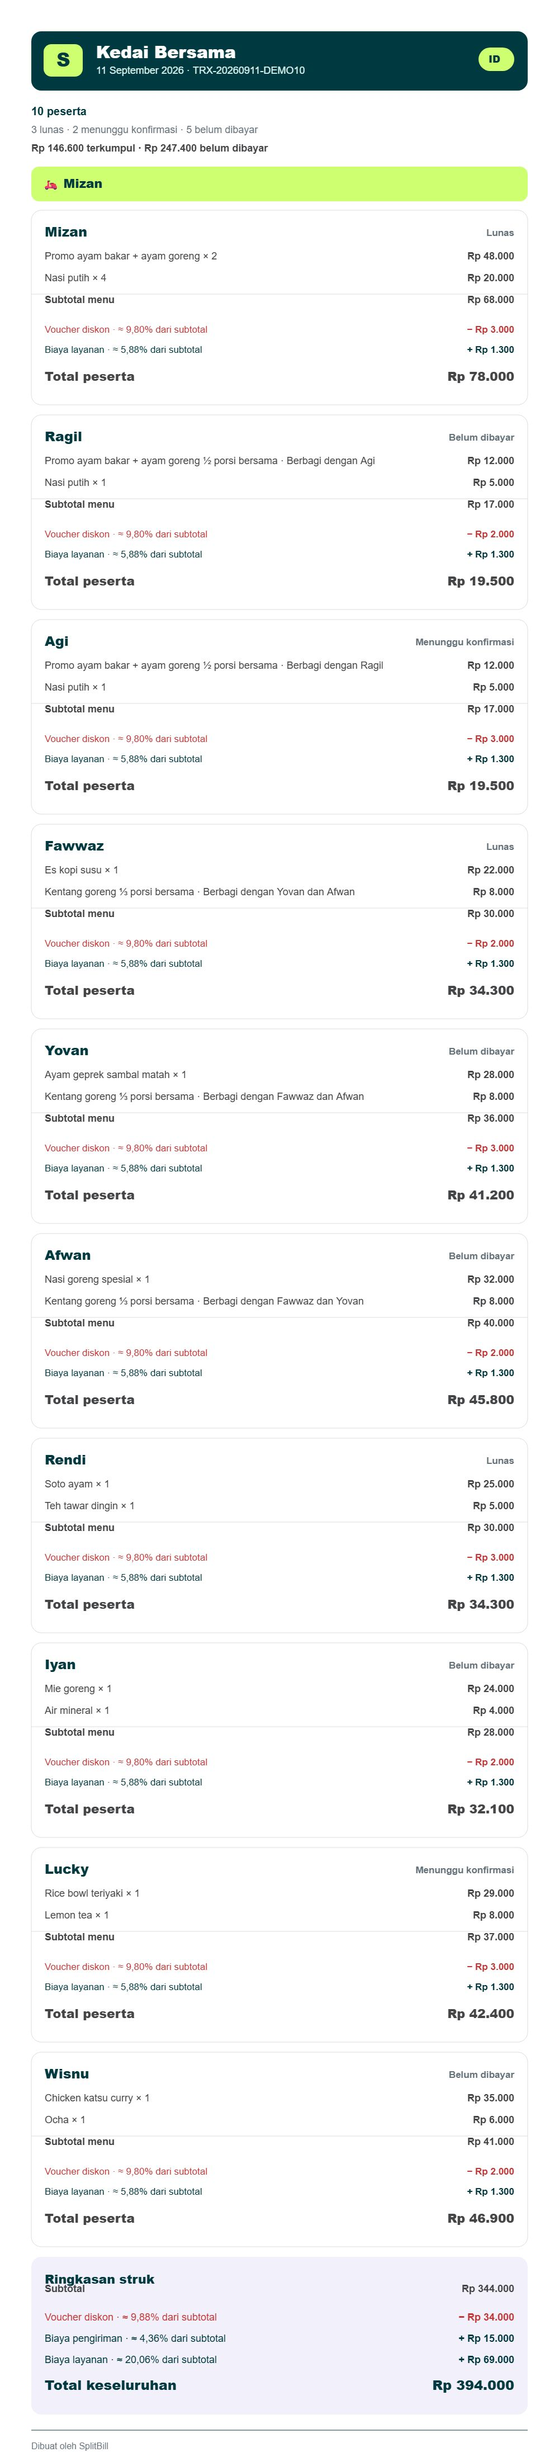
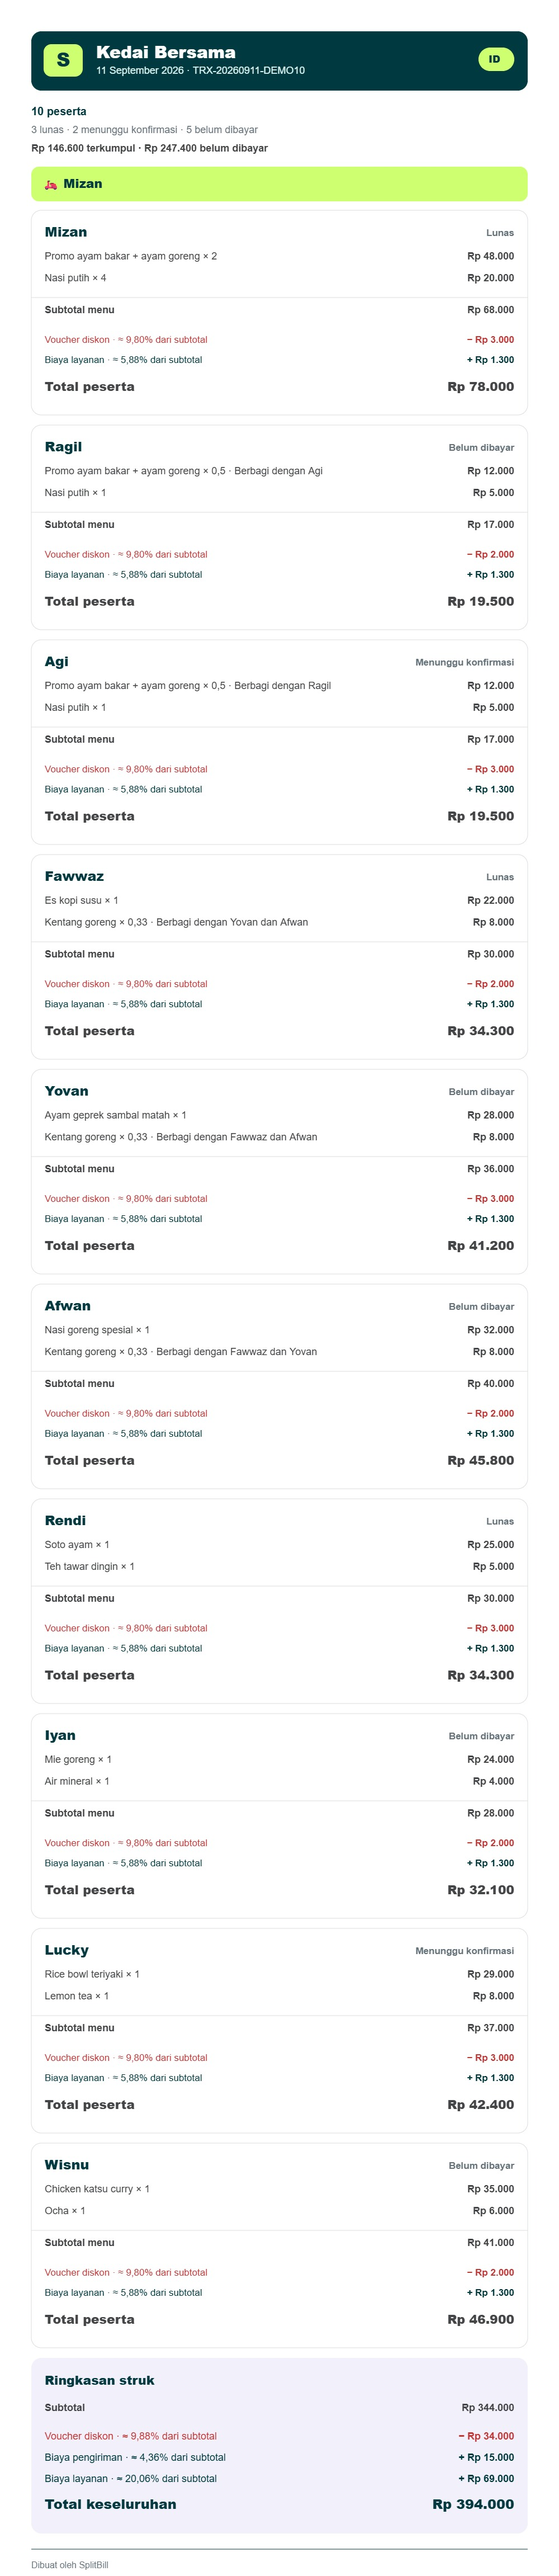
Refresh long JPG documentation preview

diff --git a/documentation/screenshots/source/share-export-preview.html b/documentation/screenshots/source/share-export-preview.html
@@ -14,11 +14,11 @@ html,body{margin:0;background:#fff}canvas{display:block;width:1000px;height:auto
 <script>
 const people = [
   ["Mizan", "Lunas", [["Promo ayam bakar + ayam goreng", "× 2", "Rp 48.000", ""], ["Nasi putih", "× 4", "Rp 20.000", ""]], "Rp 68.000", "Rp 78.000"],
-  ["Ragil", "Belum dibayar", [["Promo ayam bakar + ayam goreng", "½ porsi bersama", "Rp 12.000", "Berbagi dengan Agi"], ["Nasi putih", "× 1", "Rp 5.000", ""]], "Rp 17.000", "Rp 19.500"],
-  ["Agi", "Menunggu konfirmasi", [["Promo ayam bakar + ayam goreng", "½ porsi bersama", "Rp 12.000", "Berbagi dengan Ragil"], ["Nasi putih", "× 1", "Rp 5.000", ""]], "Rp 17.000", "Rp 19.500"],
-  ["Fawwaz", "Lunas", [["Es kopi susu", "× 1", "Rp 22.000", ""], ["Kentang goreng", "⅓ porsi bersama", "Rp 8.000", "Berbagi dengan Yovan dan Afwan"]], "Rp 30.000", "Rp 34.300"],
-  ["Yovan", "Belum dibayar", [["Ayam geprek sambal matah", "× 1", "Rp 28.000", ""], ["Kentang goreng", "⅓ porsi bersama", "Rp 8.000", "Berbagi dengan Fawwaz dan Afwan"]], "Rp 36.000", "Rp 41.200"],
-  ["Afwan", "Belum dibayar", [["Nasi goreng spesial", "× 1", "Rp 32.000", ""], ["Kentang goreng", "⅓ porsi bersama", "Rp 8.000", "Berbagi dengan Fawwaz dan Yovan"]], "Rp 40.000", "Rp 45.800"],
+  ["Ragil", "Belum dibayar", [["Promo ayam bakar + ayam goreng", "× 0,5", "Rp 12.000", "Berbagi dengan Agi"], ["Nasi putih", "× 1", "Rp 5.000", ""]], "Rp 17.000", "Rp 19.500"],
+  ["Agi", "Menunggu konfirmasi", [["Promo ayam bakar + ayam goreng", "× 0,5", "Rp 12.000", "Berbagi dengan Ragil"], ["Nasi putih", "× 1", "Rp 5.000", ""]], "Rp 17.000", "Rp 19.500"],
+  ["Fawwaz", "Lunas", [["Es kopi susu", "× 1", "Rp 22.000", ""], ["Kentang goreng", "× 0,33", "Rp 8.000", "Berbagi dengan Yovan dan Afwan"]], "Rp 30.000", "Rp 34.300"],
+  ["Yovan", "Belum dibayar", [["Ayam geprek sambal matah", "× 1", "Rp 28.000", ""], ["Kentang goreng", "× 0,33", "Rp 8.000", "Berbagi dengan Fawwaz dan Afwan"]], "Rp 36.000", "Rp 41.200"],
+  ["Afwan", "Belum dibayar", [["Nasi goreng spesial", "× 1", "Rp 32.000", ""], ["Kentang goreng", "× 0,33", "Rp 8.000", "Berbagi dengan Fawwaz dan Yovan"]], "Rp 40.000", "Rp 45.800"],
   ["Rendi", "Lunas", [["Soto ayam", "× 1", "Rp 25.000", ""], ["Teh tawar dingin", "× 1", "Rp 5.000", ""]], "Rp 30.000", "Rp 34.300"],
   ["Iyan", "Belum dibayar", [["Mie goreng", "× 1", "Rp 24.000", ""], ["Air mineral", "× 1", "Rp 4.000", ""]], "Rp 28.000", "Rp 32.100"],
   ["Lucky", "Menunggu konfirmasi", [["Rice bowl teriyaki", "× 1", "Rp 29.000", ""], ["Lemon tea", "× 1", "Rp 8.000", ""]], "Rp 37.000", "Rp 42.400"],

diff --git a/documentation/README.md b/documentation/README.md
@@ -10,11 +10,11 @@ The authoritative product and architecture reference is [`project_guide.md`](../
 - [`SHAREPOINT_SETUP.md`](guides/SHAREPOINT_SETUP.md) — Microsoft Entra permissions, SharePoint List schema, site grant, Power Automate, Teams, and troubleshooting
 - [`SECURITY.md`](SECURITY.md) — supported versions, private vulnerability reporting, secret handling, and deployment boundaries
 
-Share exports are generated locally from server-projected strings: the uploader or Admin can export the full transaction, and a Member can export only their own bill. The JPEG is a single dynamically sized 1000px Canvas image; raw HTTP automatically downloads it when native file sharing is unavailable.
+Share exports are generated locally from server-projected strings: the uploader or Admin can export the full transaction, and a Member can export only their own bill. The JPEG is a single dynamically sized 1000px Canvas image; raw HTTP automatically downloads it when native file sharing is unavailable. The “Shared with” label is shown only when an item share is below one unit; whole-unit shares are not labeled as shared.
 
 ## Visual previews
 
-The [`screenshots`](screenshots/) directory contains sanitized, illustrative UI previews used by the root README. They do not contain live database content, credentials, addresses, or protected receipt/payment files. [`share-transaction-long.jpg`](screenshots/share-transaction-long.jpg) is a 1000 × 4394 output painted directly by the production `transaction-share.js` Canvas renderer; it demonstrates that all ten participant blocks and the final receipt total remain inside one JPEG.
+The [`screenshots`](screenshots/) directory contains sanitized, illustrative UI previews used by the root README. They do not contain live database content, credentials, addresses, or protected receipt/payment files. [`share-transaction-long.jpg`](screenshots/share-transaction-long.jpg) is a 1000 × 4606 output painted directly by the production `transaction-share.js` Canvas renderer; it demonstrates that all ten participant blocks and the final receipt total remain inside one JPEG.
 
 The application-screen source is [`readme-gallery.html`](screenshots/source/readme-gallery.html). Open it with `?view=dashboard`, `?view=upload`, `?view=split`, `?view=transaction`, `?view=mybill`, or `?view=report` to render a specific 1600×900 preview. The long-share source is [`share-export-preview.html`](screenshots/source/share-export-preview.html); it loads the real renderer from `wwwroot/js/transaction-share.js` and paints sanitized precomputed display values. The Dashboard, Upload Receipt, and Set Split previews mirror the current Razor hierarchy, labels, dynamic states, navigation, and responsive application styles; all sample values are sanitized.
 

diff --git a/README.md b/README.md
@@ -65,7 +65,7 @@ SplitBill is a self-hosted ASP.NET Core 8 application that turns one or more rec
       <img src="documentation/screenshots/share-transaction-long.jpg" alt="One complete SplitBill transaction share JPEG generated by the production Canvas renderer, containing ten participant breakdowns and the reconciled receipt total" height="720">
     </a>
   </p>
-  <p align="center"><sub>Sanitized 1000 × 4394 output with all 10 participants, item shares, adjustments, payment states, pickup person, and receipt reconciliation. Click the image for the original resolution.</sub></p>
+  <p align="center"><sub>Sanitized 1000 × 4606 output with all 10 participants, item shares, adjustments, payment states, pickup person, and receipt reconciliation. Click the image for the original resolution.</sub></p>
 </details>
 
 ## Features
@@ -80,7 +80,7 @@ SplitBill is a self-hosted ASP.NET Core 8 application that turns one or more rec
 | 📊 | **Reports and Excel** | Role-scoped date/status filters, all payment states, per-person order detail, and four Excel sheets: Summary, Payment Details, Pivot by Person, and Pickup Rotation. |
 | 🛵 | **Food pickup rotation** | Admin-managed eligibility, secure weighted random or deterministic Round Robin, participant-only candidates, stable winners, reasoned rerolls, and auditable history. |
 | 💬 | **SharePoint + Teams** | Durable outbox events for bill assignment, payment approval, rejection, and pickup winner; Power Automate sends localized Teams messages with deep links. |
-| 🖼 | **One long share image** | Uploader or Admin shares all, selected, or one participant in a single readable 1000px JPEG; Members can share only their own bill, with HTTP download fallback. |
+| 🖼 | **One long share image** | Uploader or Admin shares all, selected, or one participant in a single readable 1000px JPEG; Members can share only their own bill. “Shared with” appears for fractional item shares below one unit, with HTTP download fallback. |
 | 🔗 | **Guest access** | Account-free read-only personal and whole-transaction links with separate revocation. The Share dialog includes one whole-transaction link, guest-specific links, and the JPG tab for the uploader or Admin, even when every participant is a guest. |
 | 💱 | **Multi-currency** | Bills stay payable in their receipt currency; a saved exchange-rate snapshot powers IDR reporting. Admin configures the provider and up to four current-rate cards on the operational dashboard. |
 | 👥 | **Role and user management** | Admin has global access and user management, Moderator manages owned transactions, and Member sees only linked bills and shared report context. |
